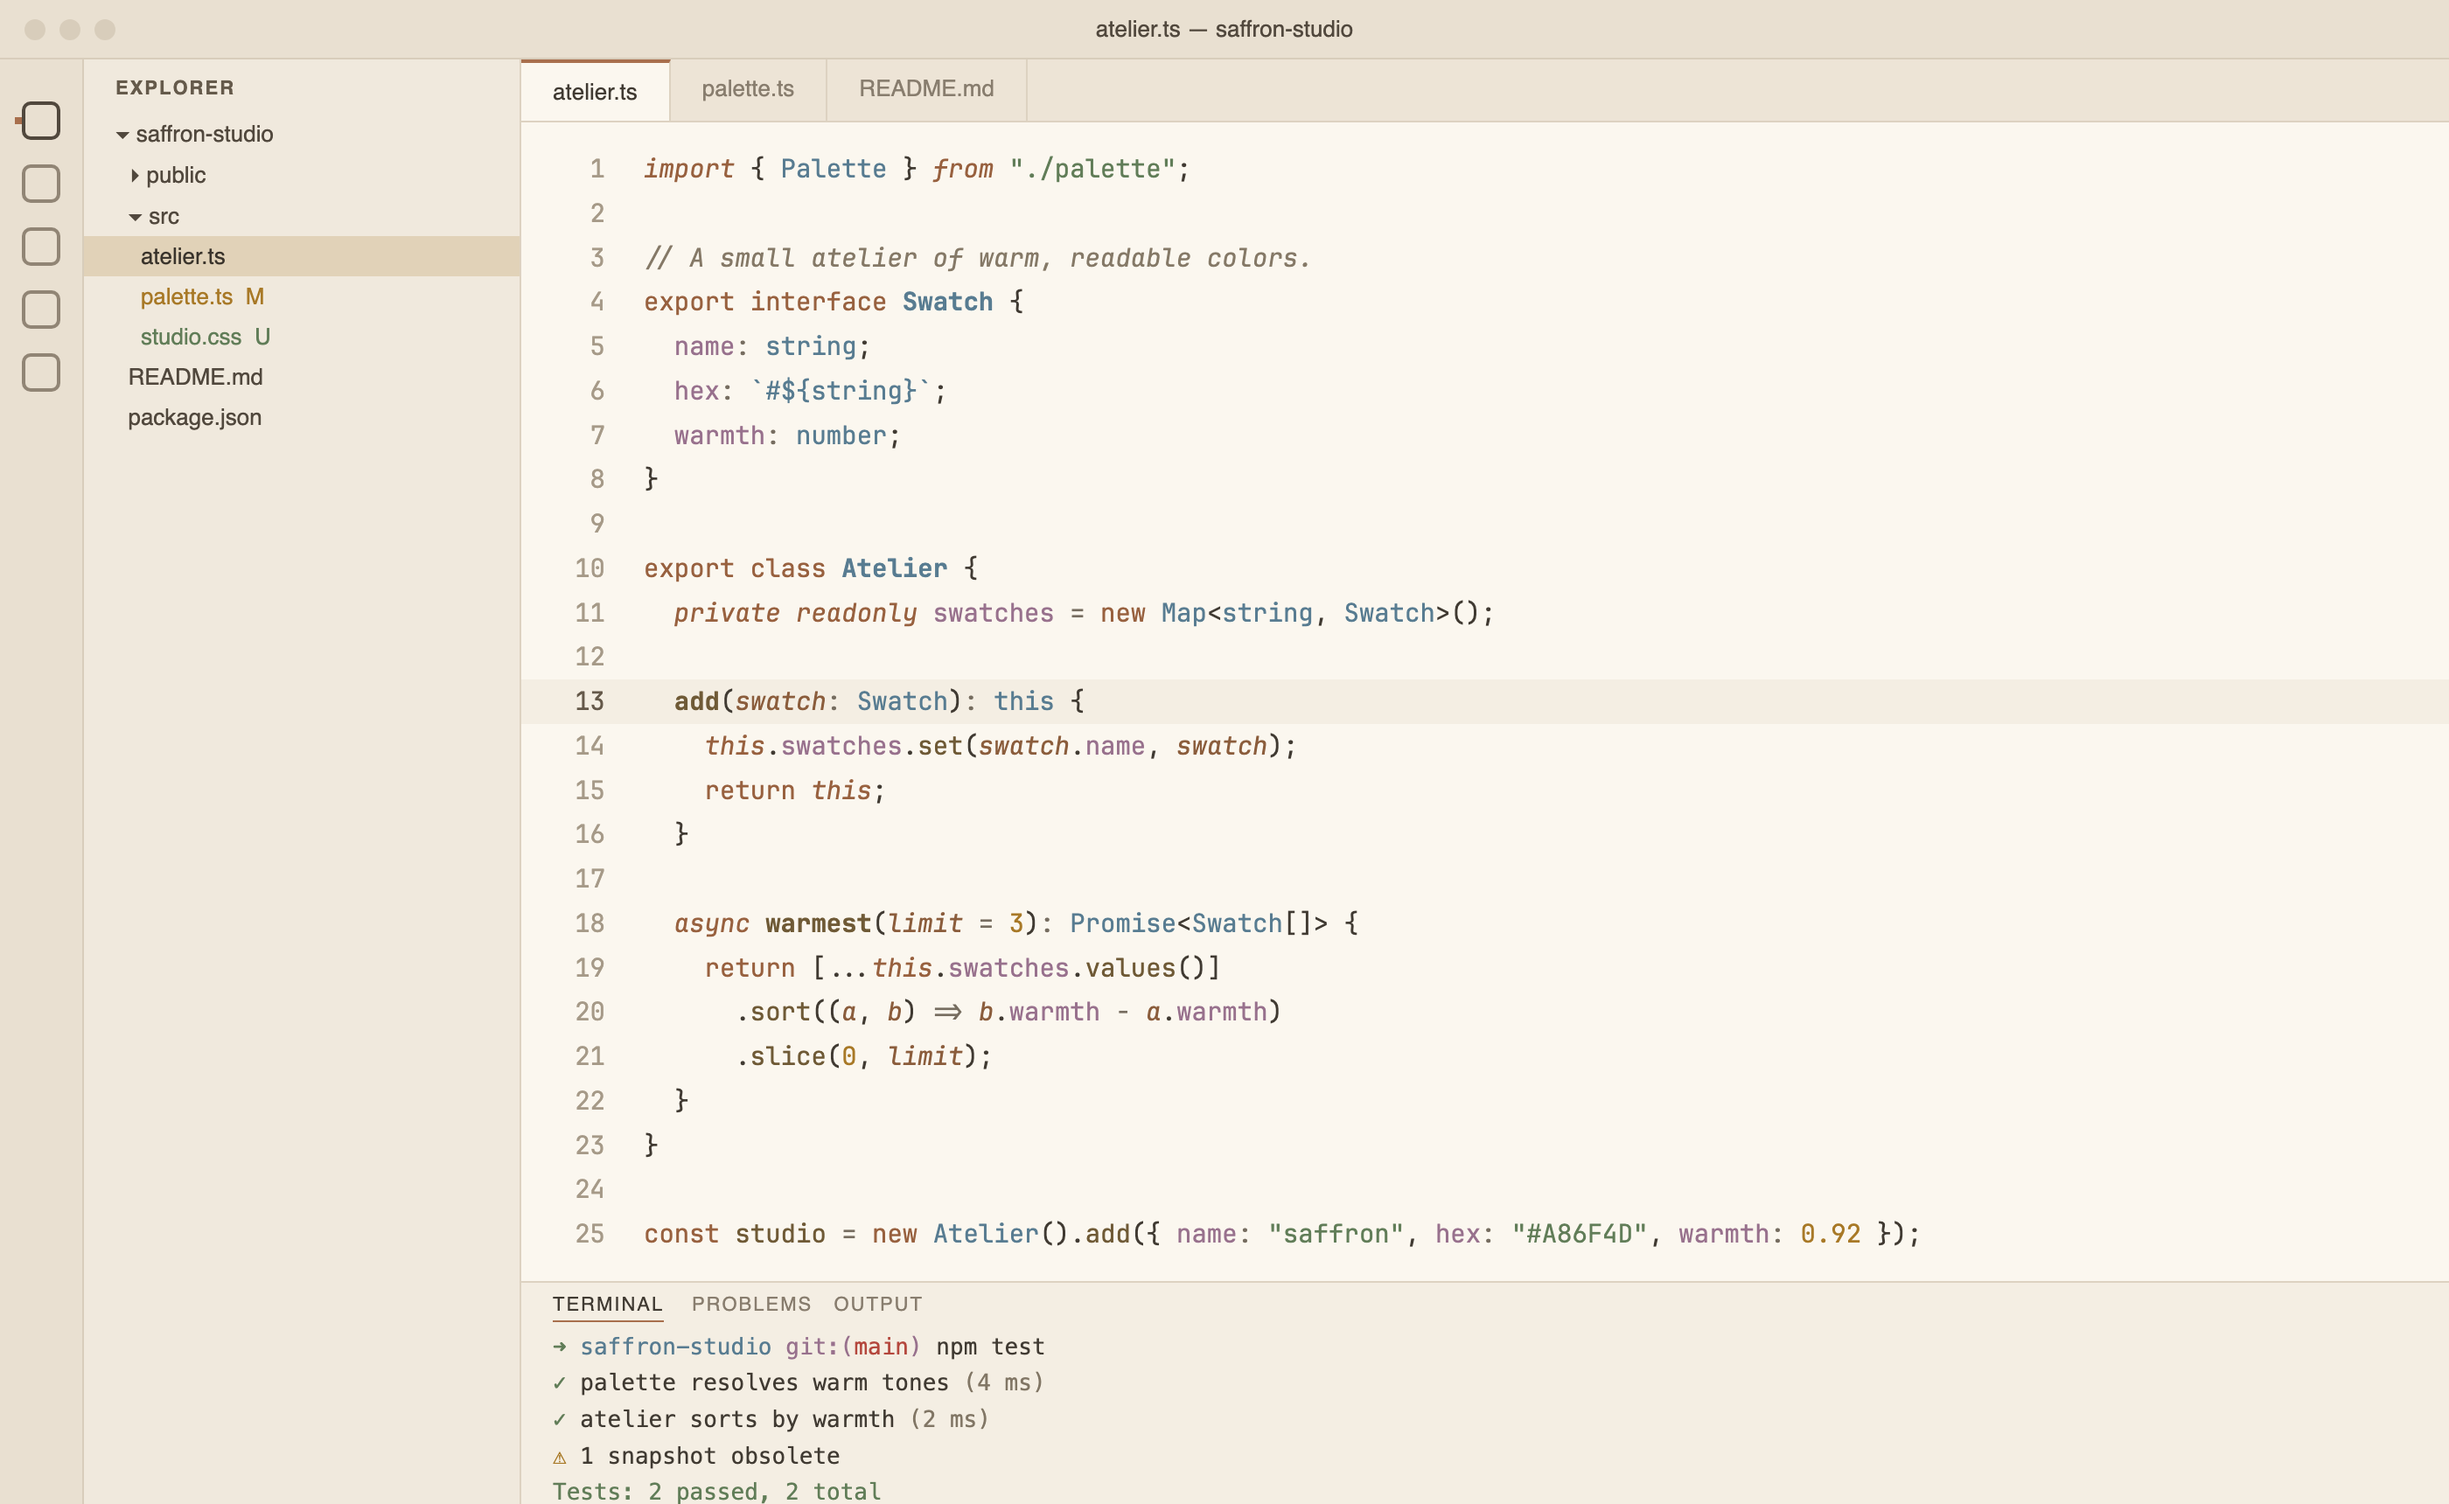
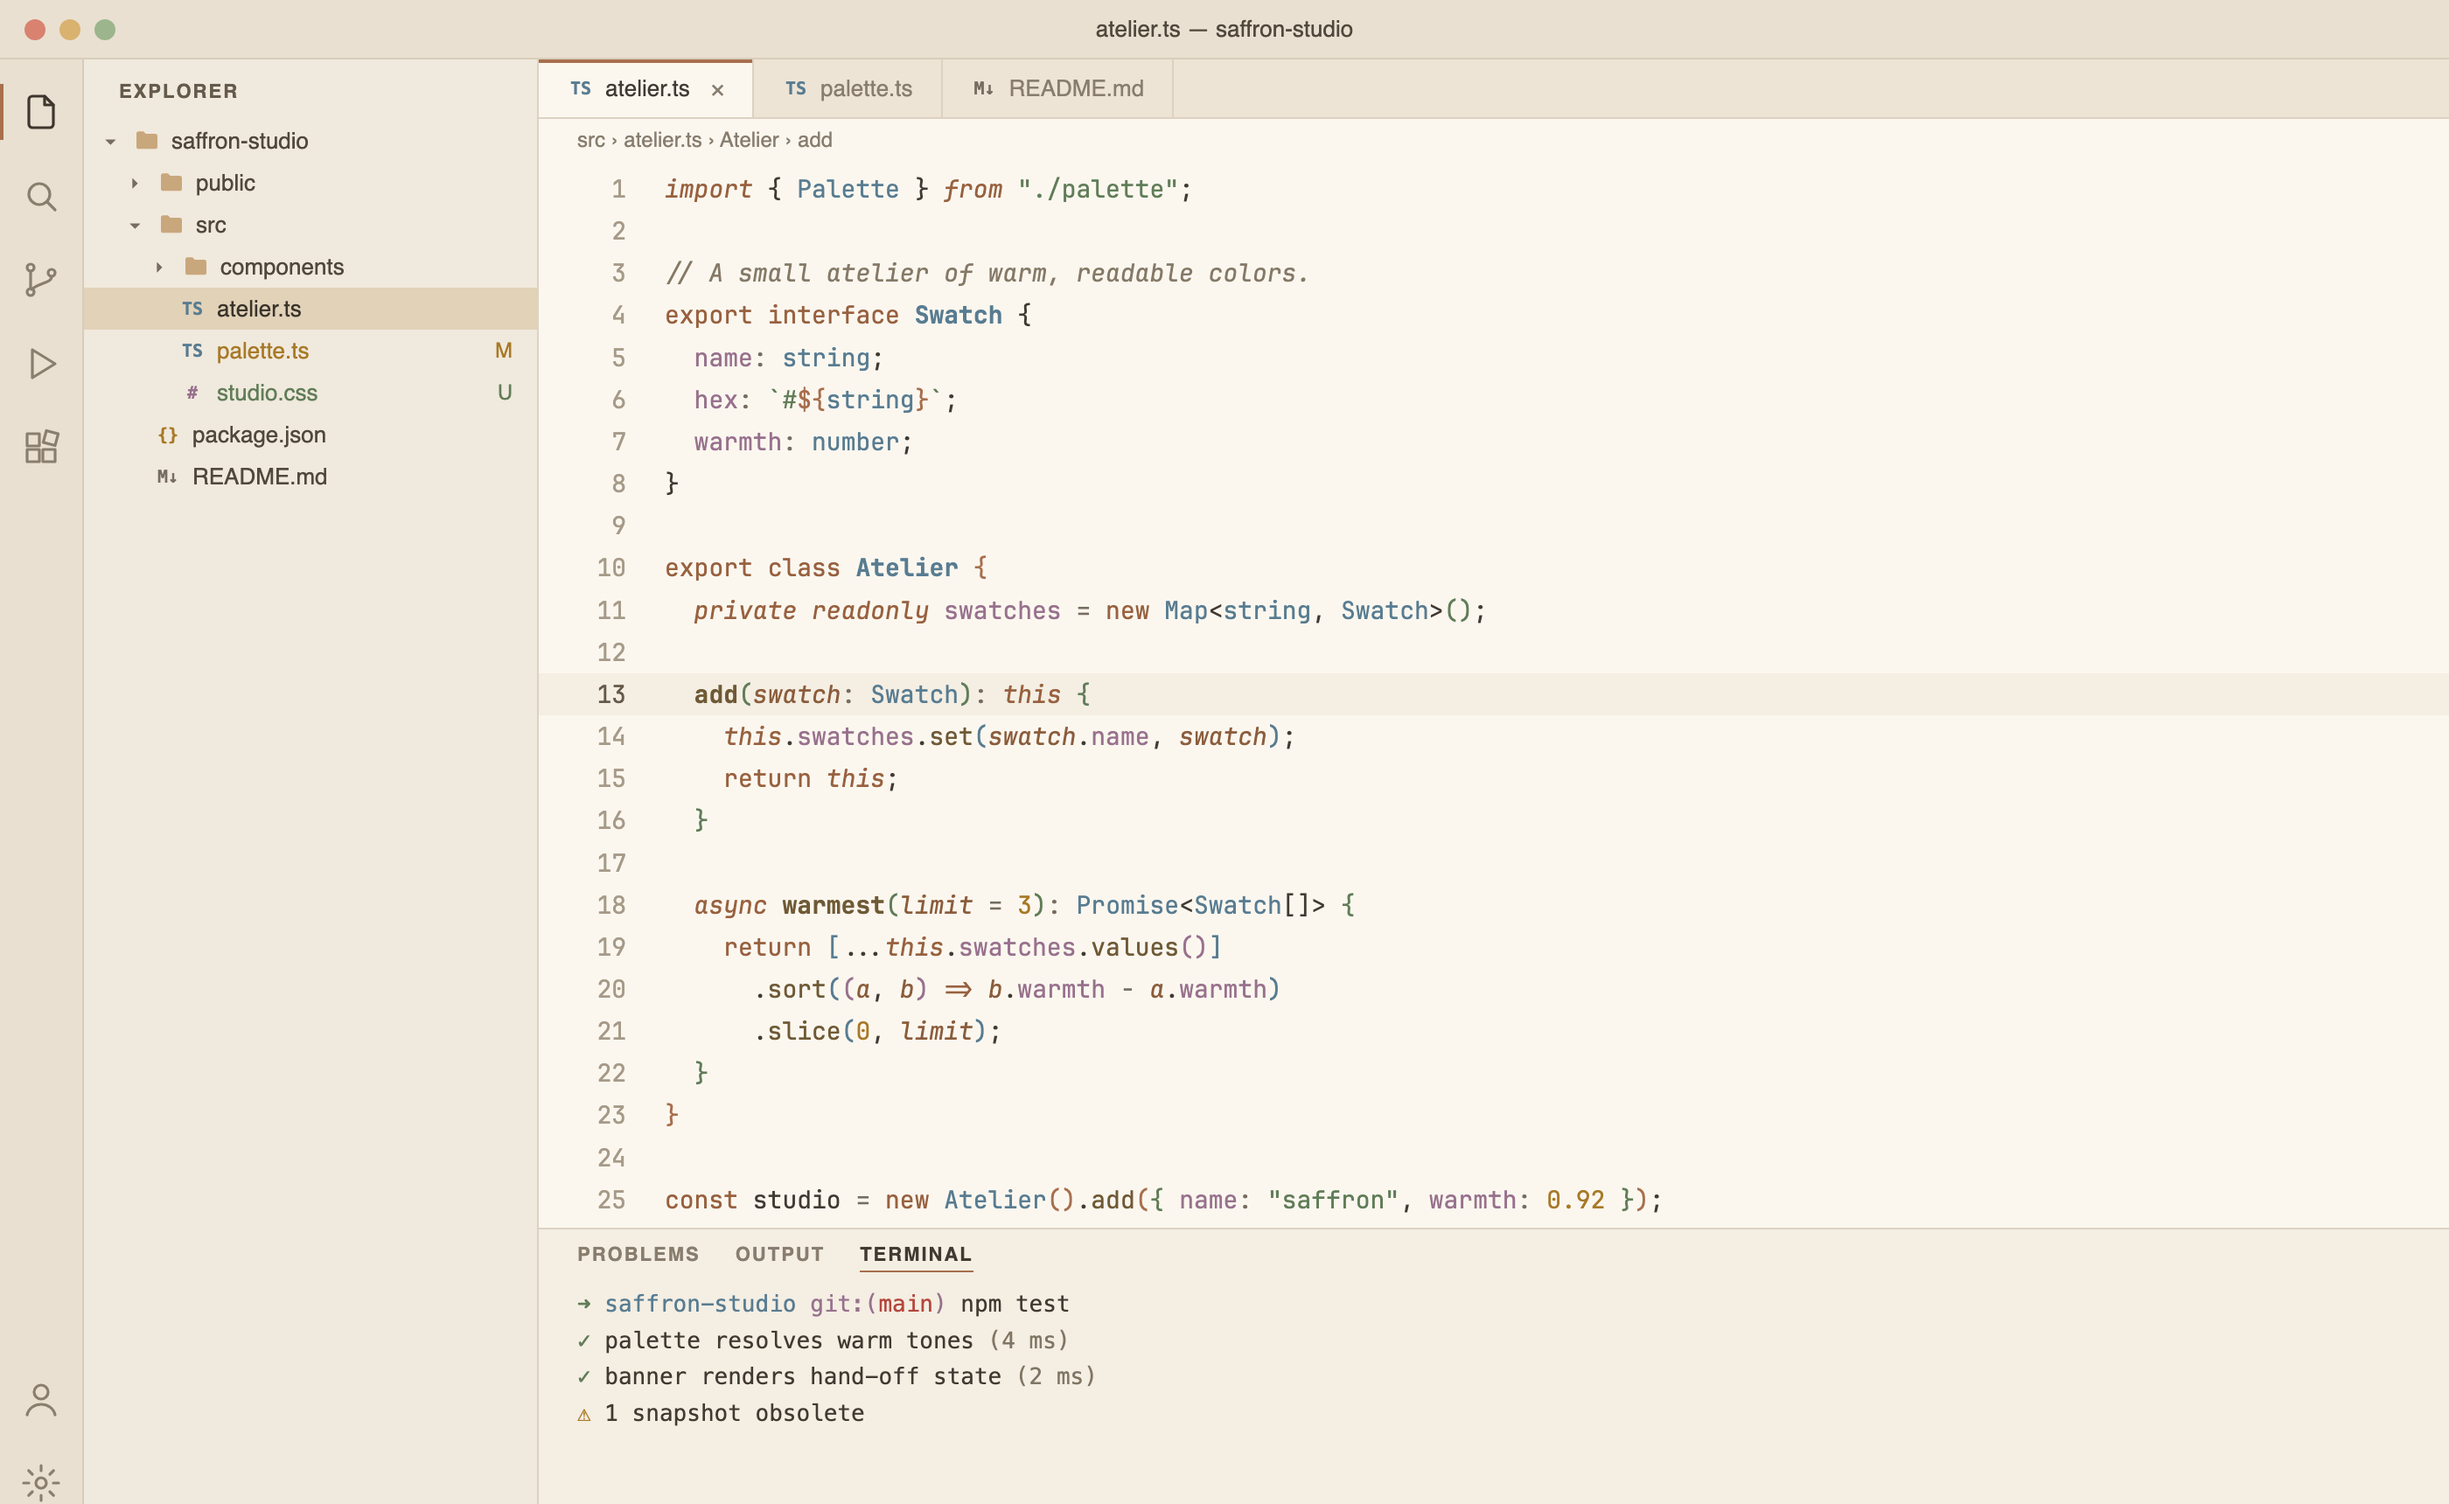
v1.3.0: palette-matched bracket colors, clearer JSX highlighting, new previews

diff --git a/README.md b/README.md
@@ -13,7 +13,16 @@
   <a href="LICENSE"><img src="https://img.shields.io/github/license/vasikmansuri/saffron-atelier-vscode-theme?color=617D58" alt="MIT license"></a>
 </p>
 
-![Saffron Atelier preview](images/screenshot.png)
+![Saffron Atelier: TypeScript](images/screenshot.png)
+
+<details open>
+<summary><b>React / JSX</b></summary>
+
+![Saffron Atelier: JSX](images/screenshot-jsx.png)
+
+</details>
+
+> Previews are rendered with the theme's exact colors and IBM Plex Mono.
 
 ---
 
@@ -60,7 +69,7 @@ You can also install it from the terminal, as shown below for each OS.
 # Optional: makes the `code` command available in your shell.
 # In VS Code: Cmd+Shift+P → "Shell Command: Install 'code' command in PATH"
 
-code --install-extension ~/Downloads/saffron-atelier-1.2.0.vsix
+code --install-extension ~/Downloads/saffron-atelier-1.3.0.vsix
 ```
 
 ### Windows
@@ -68,13 +77,13 @@ code --install-extension ~/Downloads/saffron-atelier-1.2.0.vsix
 In PowerShell (the `code` command is added to PATH by the VS Code installer):
 
 ```powershell
-code --install-extension "$env:USERPROFILE\Downloads\saffron-atelier-1.2.0.vsix"
+code --install-extension "$env:USERPROFILE\Downloads\saffron-atelier-1.3.0.vsix"
 ```
 
 ### Linux
 
 ```bash
-code --install-extension ~/Downloads/saffron-atelier-1.2.0.vsix
+code --install-extension ~/Downloads/saffron-atelier-1.3.0.vsix
 ```
 
 > **VSCodium / Cursor / other VS Code forks:** use `codium --install-extension ...` or `cursor --install-extension ...` instead of `code`.
@@ -87,7 +96,7 @@ Requires [Node.js](https://nodejs.org/) 18+ and Git.
 git clone https://github.com/vasikmansuri/saffron-atelier-vscode-theme.git
 cd saffron-atelier-vscode-theme
 npx @vscode/vsce package
-code --install-extension saffron-atelier-1.2.0.vsix
+code --install-extension saffron-atelier-1.3.0.vsix
 ```
 
 ## Activate the theme
@@ -140,6 +149,12 @@ Restart VS Code after installing the font, then add:
 - **Uninstall:** `code --uninstall-extension vasikmansuri.saffron-atelier`, or use the gear icon on the extension in the Extensions view.
 
 > **Seeing two "Saffron Atelier" entries?** Version 1.0.0 used the publisher `custom-local`. Uninstall it with `code --uninstall-extension custom-local.saffron-atelier`. If it's still listed, delete the `custom-local.saffron-atelier-1.0.0` folder in `~/.vscode/extensions` (Windows: `%USERPROFILE%\.vscode\extensions`).
+
+## Changelog
+
+- **1.3.0**: Bracket-pair colors now match the palette (VS Code's default blue/gold brackets are gone). JSX/HTML tags are terracotta, components are blue, attribute names are gold italic, `{}` expression braces are accented, sticky-scroll and symbol icon colors are set, and activity bar icons have more contrast.
+- **1.2.0**: Extension icon, preview screenshots, install steps for macOS, Windows and Linux.
+- **1.1.0**: Better comment contrast, italic/bold font styles, packaging.
 
 ## License
 
